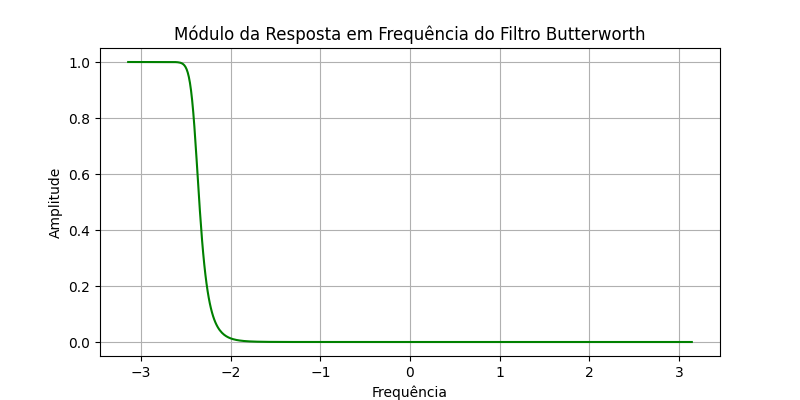
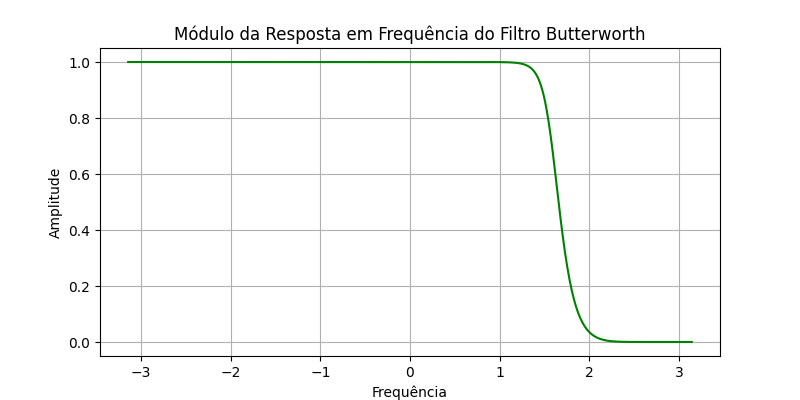
fix: Update Graphics

diff --git a/low-pass-Filtering.py b/low-pass-Filtering.py
@@ -144,22 +144,29 @@ plot_graph(n, Gn_offset, 'Sinais G[n] e Y[n-a]', 'Tempo', 'Amplitude', Yn, 'Sina
 """
     O filtro FIR (Finite Impulse Response) tem como vantagem uma resposta em frequência precisa e nítida,
 pois possue uma resposta em frequência caracterizada por uma magnitude retangular (idealmente).
-Isso significa que a magnitude da resposta é constante na faixa de passagem e cai abruptamente para zero na faixa de rejeição.
-"""
+Isso significa que a magnitude da resposta é constante na faixa de passagem e cai abruptamente
+para zero na faixa de rejeição, como é notado no gráfico da questão 04. Outra vantagem é que sua resposta 
+em fase é previsível (linear), como é percebido nn gráfico da questão 05. Também, o atraso de grupo é 
+constante, como mostra o gráfico da questão 06. Essas vantagens possibilitam que esse filtro seja facilmente
+projetado, apresentando ótima estabilidade e menos suscetível a problemas. 
 
+A desvantagem é que requer um número maior de coeficientes para alcançar respostas em frequência complexas. 
+Assim, pode exigir mais recursos computacionais para implementação em tempo real
+
+"""
 
 
 #__________________________ Questão 11 _____________________________________
 
 # Frequência de corte desejada por amostra
-cutOffFreq_Hz = 0.75 / (2 * np.pi) #frequência em Hz
+cutOffFreq = 0.75
 
 # Ordem do filtro Butterworth
 order = 10
 
 # Projetar o filtro Butterworth
 # Os coeficientes ak e bk estão armazenados nos vetores a e b 
-b, a = signal.butter(order, cutOffFreq_Hz, btype='low')
+b, a = signal.butter(order, cutOffFreq, btype='low')
 
 #__________________________ Questão 12 _____________________________________
 
@@ -228,3 +235,14 @@ alpha = -2 # atraso nd
 Yn_Butterworth_offset = np.roll(Yn_Butterworth, alpha);
 
 plot_graph(n, Gn, 'Sinais G[n] e Y[n-nd] (Butterworth)', 'Tempo', 'Amplitude', Yn_Butterworth_offset, 'Sinal g[n]', 'Sinal y[n-a]')
+
+#__________________________ Questão 18 _____________________________________
+'''
+
+
+
+
+
+
+
+'''
